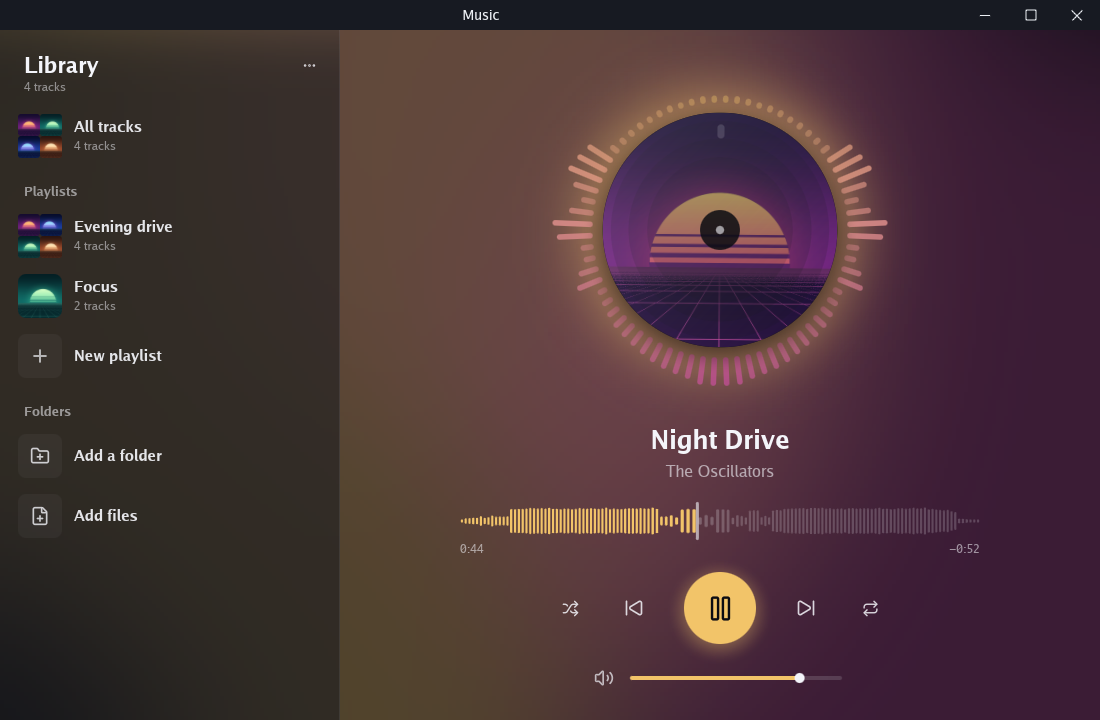
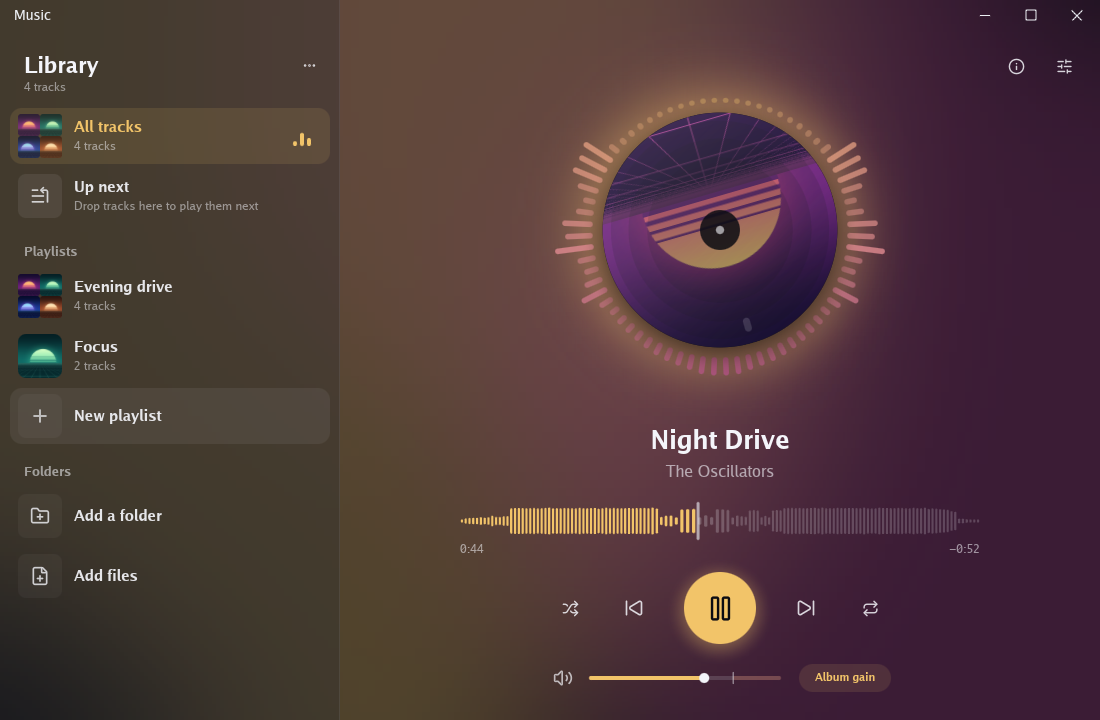
Bring the README up to date
- Status: gunim runs on Windows 11, Linux under X11 and Android, and
  the examples are full programs. The examples get a section of their
  own.
- The music player: gain per track through a crossfade, the media
  controls, the track in the window's title, and a window that reopens
  where it closed. A new screenshot shows it drawn under its title bar.
- The mastering example points to Marras Mastering Studio, its new
  home.
- The sudoku: its antics, and its music in ten synths.
- widgets, controls and paragraph, each in a line.
- Sound: audioui, cues for an application's own events, and the oto
  fork, with the replace line a program importing gunim needs.
- A new section, The desktop: the window's frame, drawing under the
  title bar, placement, the tray, hot keys, media controls, file
  dialogs, the clipboard, and drag and drop.
- Packages: audioui, the Android driver, gunimtest, markdown, match,
  emoji, filemanager and calendar.
- The platform layer: frames on Windows go out through DXGI.
- Next: what is still open, with Windows popups and the first
  milestone gone from it.

diff --git a/README.md b/README.md
@@ -5,25 +5,25 @@ the display's refresh rate.
 
 ## Status
 
-The API is a sketch, and windows draw. `example/twowindows` opens two
-windows, each animating a rounded rectangle on its own render thread,
-built with `CGO_ENABLED=0`:
+gunim runs on Windows 11, on Linux under X11, and on Android. On Windows
+each window draws at its own monitor's rate, with 60 Hz and 120 Hz
+monitors side by side. macOS builds and is still untested. The API
+still changes as the examples ask more of it.
+
+Text shapes and wraps in pure Go, including right-to-left and mixed
+scripts. Sound plays in pure Go on the desktop. The examples below are
+full programs: a music player, a file manager, a calendar, a chat
+client and a candy sudoku among them.
+
+`example/twowindows` is where gunim started: two windows, each
+animating a rounded rectangle on its own render thread, built with
+`CGO_ENABLED=0`.
 
 ```sh
 CGO_ENABLED=0 go run ./example/twowindows -for 5s
 ```
 
-It runs on Windows 11 with 60 Hz and 120 Hz monitors side by side, each
-window at its own monitor's rate, and on Linux under X11. macOS builds
-and is still untested. Text shapes and wraps in pure Go, including
-right-to-left and mixed scripts.
-
-A window looks finished with no work from the application. By default
-gunim draws its title bar, rounded corners, border and shadow, and the
-window fades in as it opens and fades out as it closes. An application
-that puts `widget.WindowControls` in its own tree draws its own title
-bar instead. `WindowOptions.SystemFrame` keeps the system's frame, and
-`WindowOptions.Instant` turns the fade off.
+## Examples
 
 `example/tutorial` teaches how to build a gunim application, six
 lessons in a window: the node tree, a button and the two halves, a
@@ -111,8 +111,8 @@ together. The track playing is a picture disc that spins while it plays
 and runs down slowly as it pauses, ringed by bars that move with the
 music, pitch by pitch. Lights in the cover's colours drift behind
 everything and swell with the bass, and a new track's colours flow
-through the whole window. The seek bar is the track itself, drawn as its
-loudness along it.
+through the whole window, up under its title bar. The seek bar is the
+track itself, drawn as its loudness along it.
 
 ```sh
 go run ./example/music
@@ -133,48 +133,27 @@ it at the gap shown; or on the library, which follows a folder dropped
 there. A drag resting on a list's back button slides it away, to drop
 on the shelf. The equalizer, E, is parametric: up to
 eight bands, each a bell, a shelf, a cut or a notch, dragged about a
-graph, with the sound's spectrum before and after it drawn behind them. Loudness gain plays each track, or each
-album played in order, at -18 LUFS, measured in the background and kept
-between runs; the volume bar shows the gain as the pointer comes over
-it, and I opens a card of the track's file, quality and loudness. Space plays and pauses, the arrows seek and set the
-volume, and N and P skip.
+graph, with the sound's spectrum before and after it drawn behind them.
+
+Loudness gain plays each track, or each album played in order, at -18
+LUFS, measured in the background and kept between runs. Its button
+steps between no gain, track gain and album gain, and two tracks
+crossfading each keep their own. The volume bar shows the gain as the
+pointer comes over it, and I opens a card of the track's file, quality
+and loudness. Space plays and pauses, the arrows seek and set the
+volume, N and P skip, S shuffles and R repeats.
+
+The system's media controls show the track playing, with its cover, and
+play, pause, skip and seek it. The window's title names the track, so
+Alt+Tab and the taskbar show it. The window opens where it last closed,
+on a monitor still attached, and fades out with the music as it closes.
 
 ![The music player](example/music/music.png)
 
-`example/mastering` masters an album, an EP or a single. Each track is
-cut, faded with a curve of five shapes, and set apart by the same
-silence, edited on its waveform or its spectrogram, with the loudness
-it was measured at drawn along it. The waveform zooms in to the samples
-themselves, and up to show quiet sound. One track plays at a time, and
-a number key switches to another at the same moment, levels matched to
-the target if asked, to compare them by ear, or bypassed, the mix as it came, in time with
-the master. A loop plays a stretch over and over. Autoplay next runs on
-from each track into the next without a gap, as the exported files will
-play.
-
-Each track runs through its own chain of VST3 plugins, such as Ozone.
-Only the track heard runs its plugins, so the rest cost the computer
-nothing. A chain copies to other tracks with every plugin as set.
-Tracks are measured as they will be exported, through a copy of their
-chain run offline: loudness, its range and true peak. A change marks a
-track, and Calc LUFS measures the tracks marked, so heavy plugins work
-only when asked. To target finds the gain that brings a track to the
-target. Meters show the input to the chain and its output, each with a
-fader for the gain, loudness against the target, the stereo image, and
-the spectrum or a spectrogram.
-
-The export writes each track at its own length, tracks side by side, to
-16 or 24-bit WAV with dither, or 32-bit float, and, where LAME is
-installed, MP3, each tagged with the release, with a report of it all
-if asked. A project is a file of its own, which keeps its tracks' paths
-from its own folder, so it opens wherever the folders are found
-together.
-
-```sh
-go run ./example/mastering mix1.wav mix2.wav
-```
-
-![The mastering example](example/mastering/mastering.png)
+[Marras Mastering Studio](https://github.com/marrasen/mastering-studio)
+masters an album, an EP or a single, through chains of VST3 plugins. It
+started here as `example/mastering` and is now a project of its own,
+built on gunim's `audio`, `audio/vst3` and `audioui`.
 
 `example/sudoku` is a sudoku of candies, made for a phone and laid out
 for a desktop too, to see how far the animation goes. Each digit is a
@@ -182,9 +161,13 @@ candy of its own colour and shape. Candies drop in and wobble like
 jelly; a wrong one shakes, crumbles and breaks a heart as the board
 shakes; a finished row sweeps with light; quick candies build a combo
 that calls out "Sweet!" with stars; a won board bounces under fireworks.
-Each digit is a note, so filling the board plays tunes over a marimba
-loop. A map winds through 60 levels, from Easy to Expert, and a heart
-hops along it as each level opens.
+Picking a candy sets every candy of its digit hopping, a new level's
+candies run in and leap into their cells, and after a win Pac-Man eats
+the board row by row. Each digit is a note on a marimba, so filling the
+board plays tunes. The music is a song in ten synths, each coming and
+going in 16-bar phrases, so it never plays the same twice. A map winds
+through 60 levels, from Easy to Expert, in three layers that scroll at
+their own speeds, and a heart hops along it as each level opens.
 
 ```sh
 go run ./example/sudoku
@@ -196,7 +179,21 @@ note. Progress is kept between runs.
 
 ![The candy sudoku and its map](example/sudoku/sudoku.png)
 
-### Sound
+Three smaller examples show one thing each. `example/widgets` is a
+gallery of the widgets, with a dark and a light theme to switch
+between. `example/controls` has popups, pictures that fly to fill the
+window, a list of a hundred thousand items, rows to put in order by
+dragging, and a second window to drag pictures to. `example/paragraph`
+springs a column of English, Hebrew and Arabic between narrow and wide,
+wrapping it again every frame.
+
+```sh
+CGO_ENABLED=0 go run ./example/widgets
+CGO_ENABLED=0 go run ./example/controls
+CGO_ENABLED=0 go run ./example/paragraph
+```
+
+## Sound
 
 Package `audio` plays sound: a `Mixer` sums the sounds playing into one
 stream at 48 kHz, and `audio/speaker` plays it through the computer's
@@ -222,6 +219,22 @@ through an effect in realtime or offline, and saves and restores its
 state. It shows the effect's own editor in a window, on Windows and
 Linux.
 
+Package `audioui` draws sound for audio programs: level meters and
+faders, a spectrum and a spectrogram, a waveform, and loudness readings
+and curves, in the colours of a dark studio.
+
+`audio/speaker` plays through a fork of oto,
+[marrasen/oto](https://github.com/marrasen/oto), which keeps a
+Bluetooth headset on Android from crackling and says how long the
+device takes to play what it is handed, so visuals keep time with the
+sound as heard. Go applies a `replace` only in the module being built,
+so a program that imports gunim takes the same line into its own
+`go.mod` to get the fix:
+
+```
+replace github.com/ebitengine/oto/v3 => github.com/marrasen/oto/v3 v3.5.1-gunim.2
+```
+
 Widgets play cues as the user works them: a press, a switch turning on
 or off, a menu opening. They are silent until an application chooses
 the sounds; `audio/cues` has a quiet set made in code:
@@ -235,7 +248,64 @@ if _, err := speaker.Open(mix, speaker.Options{Name: "My app"}); err == nil {
 
 `example/widgets` plays them; `-sound=false` turns them off.
 
-### Android
+An application plays cues of its own with `UI.Cue`, for what happens
+while the user looks elsewhere: `CueConnected` and `CueDisconnected`,
+`CueDone` and `CueFailed` for work left running, and `CueBell` for
+something that wants the user, as a terminal's bell. Each cue sounds
+from where its node is across the window, a little left or right.
+
+## The desktop
+
+A window looks finished with no work from the application. By default
+gunim draws its title bar, rounded corners, border and shadow, and the
+window fades in as it opens and fades out as it closes. An application
+that puts `widget.WindowControls` in its own tree draws its own title
+bar instead. `WindowOptions.SystemFrame` keeps the system's frame, and
+`WindowOptions.Instant` turns the fade off.
+
+`WindowOptions.UnderTitleBar` lets an application draw the whole
+window, with gunim's title bar over its top, the way an Android app
+draws under the status bar. The bar's height comes to the application
+as `Frame.Safe`, as a phone's bars do, so the same layout keeps its
+content clear of both. A `widget.TitleBar` with a `Name` shows that
+name whatever the window's title says, and `TitleAtStart` puts it at
+the left.
+
+`Window.Placement` says where a window is and how big, for the
+application to keep as it closes, and `WindowOptions.Place` opens it
+there next time. A placement whose monitor is gone opens centred on the
+primary monitor, and one larger than its monitor shrinks to fit. A
+window also goes full screen, stays above other windows with
+`WindowOptions.Pinned`, zooms with Ctrl and +, - and 0 or the wheel
+with `WindowOptions.ZoomKeys`, and asks for the user's attention in the
+taskbar.
+
+An application reaches the rest of the desktop through `App`, `Client`
+and `UI`:
+
+- **The tray.** `App.SetTray` shows an icon with a menu, and
+  `App.TrayNotify` a message from it. With `App.StayOpen` the
+  application runs on with no window open. Linux speaks
+  StatusNotifierItem.
+- **Keys from every program.** `App.RegisterHotKey` hears a key
+  whatever program has the keyboard, on Windows and on X11.
+- **Media controls.** `App.SetNowPlaying` tells the system what plays,
+  over MPRIS on Linux and the System Media Transport Controls on
+  Windows. Their buttons arrive as media keys, and a move along their
+  bar as `input.MediaSeek`.
+- **Files.** `Client.ChooseFiles` and `Client.SaveFile` show the
+  system's dialogs. `Client.Open` hands a file to the program the
+  system keeps for it, and `Client.Reveal` shows it in the system's file
+  manager.
+- **The clipboard.** `UI.SetClipboard` and `UI.ReadClipboard` carry
+  text, and `UI.ClipboardImage` reads a picture.
+- **Drag and drop.** Files and pictures drag between windows, out to
+  other programs and in from them, and a drop target lights while
+  another program's files hover over it. With
+  `WindowOptions.DragFromBehind`, an item drags from a window lying
+  behind another on Windows, as from Explorer's windows.
+
+## Android
 
 The same programs build for Android. `tools/gunimapk` turns one into an
 APK with the Android SDK's own tools, and `-run` installs and starts it
@@ -543,16 +613,24 @@ writes them again from a newer Lucide.
 | `gunim/audio/speaker` | Plays a mixer through the speakers, with oto |
 | `gunim/audio/cues` | Quiet sounds made in code for the widgets' cues |
 | `gunim/audio/vst3` | Hosts VST3 effects: their sound, state, parameters and editors |
+| `gunim/audioui` | Meters and faders, a spectrum and a spectrogram, a waveform, and loudness readings for audio programs |
 | `gunim/paint` | The per-frame draw list: rounded rects, shadows, text, images, tinted masks, layers |
 | `gunim/icon` | Lucide's icons as strokes, drawn as tinted masks; `icon/byname` looks them up by name |
 | `gunim/geom` | float32 points, sizes, rectangles |
 | `gunim/syntax` | Splits source code into tokens to colour; `syntax.Go` reads Go with `go/scanner` |
+| `gunim/markdown` | Shows Markdown as gunim text that the reader can select and copy |
+| `gunim/match` | Finds a typed query in lines of text, ranked as a command palette ranks them |
+| `gunim/emoji` | The emoji in a picker's groups, with their names for searching |
 | `gunim/input` | Pointer, keyboard and focus events, keys, buttons, modifiers |
 | `gunim/theme` | Tokens, themes, and animated theme switching |
 | `gunim/text` | Fonts and fallback, shaping, paragraph layout, glyph rasterizing |
 | `gunim/access` | What a window says to screen readers: roles, names, states, actions |
 | `gunim/driver` | The seam with the operating system, and an offscreen window |
 | `gunim/driver/desktop` | The driver for Linux, Windows and macOS, on GLFW and OpenGL |
+| `gunim/driver/android` | The driver for Android: every window drawn into the activity's one surface, touch, and the soft keyboard |
+| `gunim/gunimtest` | Offscreen windows for tests, which fail a test that sent from or focused a node out of the tree |
+| `gunim/filemanager` | A file manager to open in any program, on the local disk or on a file system of its own, such as a server's |
+| `gunim/calendar` | A calendar's views: a day or a week by the hour, a month, and a small month to pick a day from |
 | `gunim/widget` | `Row`, `Column`, `Scroll`, a `TileGrid` that builds only the tiles in view and selects with a band, `Label` whose text the mouse can select and copy when `Selectable`, `TextField`, `NumberField` that steps with the arrows and the wheel and holds itself to its bounds, `TextArea`, `Card`, `Button`, `Icon`, `IconButton`, `Checkbox`, `Switch`, `Slider`, which runs up the height as a fader when its `Axis` is vertical, `Tabs`, a `Segmented` control whose pill springs to the option chosen, `Dropdown`, `ContextMenu`, `Tooltip`, `Image`, `Hero` for elements that fly between screens, `Draggable` and `DropTarget` for drag and drop within and between windows and to and from file managers, a `DragGhost` that trails the pointer and says what a drop would do, a `DropZone` that lights the spot under a drag and springs it open, `Dialog`, a keyed `List`, a `VirtualList` that builds only the rows in view, a `DataGrid` that draws millions of rows of styled cells by index and drags the rows selected, an `Overview` strip that maps and scrolls it, a `MenuButton` whose menu can stay open to tick several items, removable `Chip`s and a `Wrap` that flows them onto lines, `RichText` that wraps text in several styles with links, a `CodeEditor` with line numbers, tab stops, highlighting and marks such as a compiler's errors, and their theme tokens |
 
 Commands, intents, topics and the `Client` live in `wire.go` and
@@ -590,6 +668,15 @@ each render thread waits for its own monitor's vertical blank instead,
 the way Chromium does. Where the swap does
 not wait for the display, as under a remote desktop, the render thread
 sleeps out the rest of the refresh itself.
+
+On Windows the frames reach the screen through DXGI, as Direct3D
+programs' do: the renderer draws with OpenGL into a Direct3D 11 texture
+shared through `WGL_NV_DX_interop2`, and a flip-model swap chain shows
+it through DirectComposition. That path works on every display,
+including one Windows puts in place of a monitor that is switched off,
+and over remote desktop tools. Where a machine lacks a piece of it, the
+window presents through OpenGL, and `GUNIM_PRESENT=gl` chooses that
+too.
 
 Every shape is one quad and one signed distance field, so rounded
 rectangles, strokes, gradients and shadows stay crisp at any scale.
@@ -660,24 +747,19 @@ parent.
 
 ## Next
 
-The first milestone is two windows on two monitors at different refresh
-rates, each drawing an animated rounded rectangle, with
-`CGO_ENABLED=0`, on Linux and Windows. Windows passes, on a 60 Hz and a
-120 Hz monitor (issue #1). What remains:
+In no set order:
 
-- Run it on Linux with a real GPU, where the swap waits for vblank.
-  Two monitors at different rates run on a virtual display from
+- Linux with a real GPU, where the swap waits for vblank. Two monitors
+  at different rates run on a virtual display from
   `tools/multimon/start.sh`: each window takes its own monitor's rate,
-  paced by the fallback timer, since a virtual display has no vblank.
-
-Then, in no set order:
-
-- Popups, images and the new renderer on Windows, and measuring the
-  renderer on a GPU. Every number so far comes from software GL.
+  paced by the fallback timer, as a virtual display has no vblank.
 - macOS, which builds and has never run. Its popups are borderless
-  floating windows, with no popup type of their own yet.
+  floating windows, with no popup type of their own yet, and it keeps
+  the system's title bar.
 - Input-method compositions on macOS, which the GLFW port reports only
   on X11 and, with a gunim change, on Windows.
+- Bluetooth headsets on Windows: whether they play cleanly, and whether
+  the system counts their delay (issue #26).
 
 ## Licence
 
